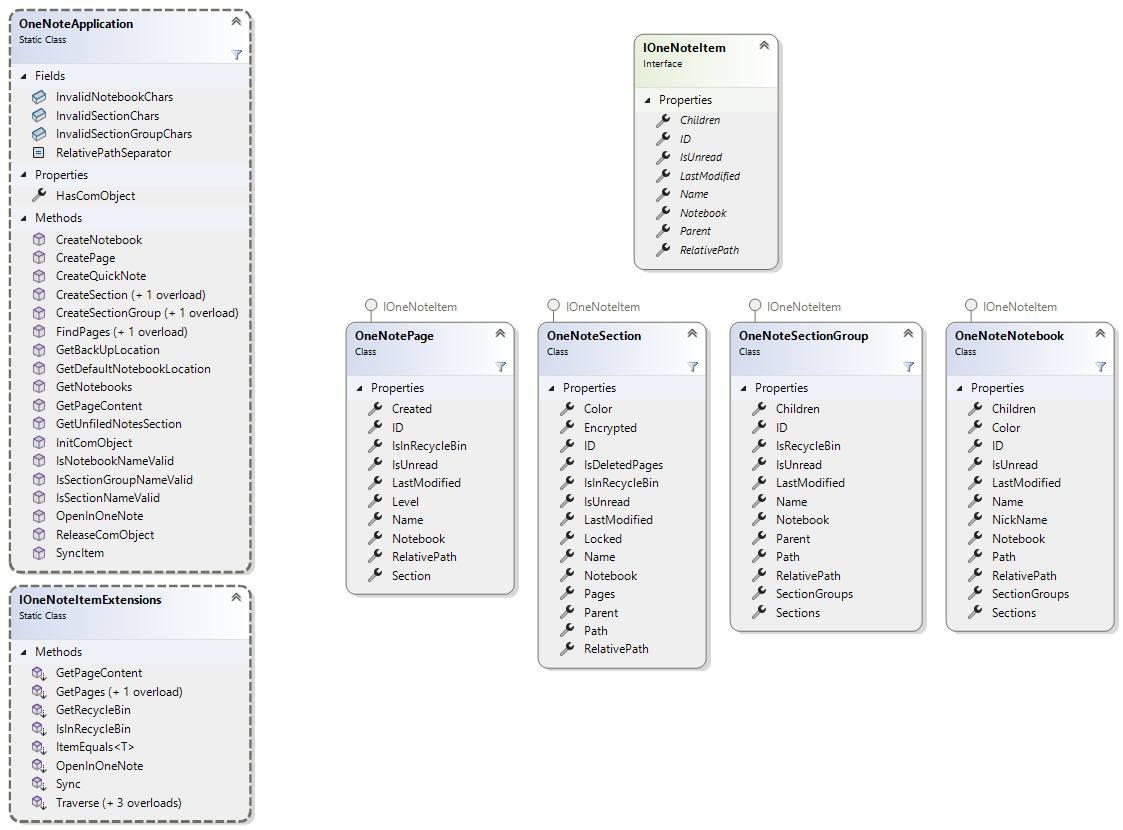
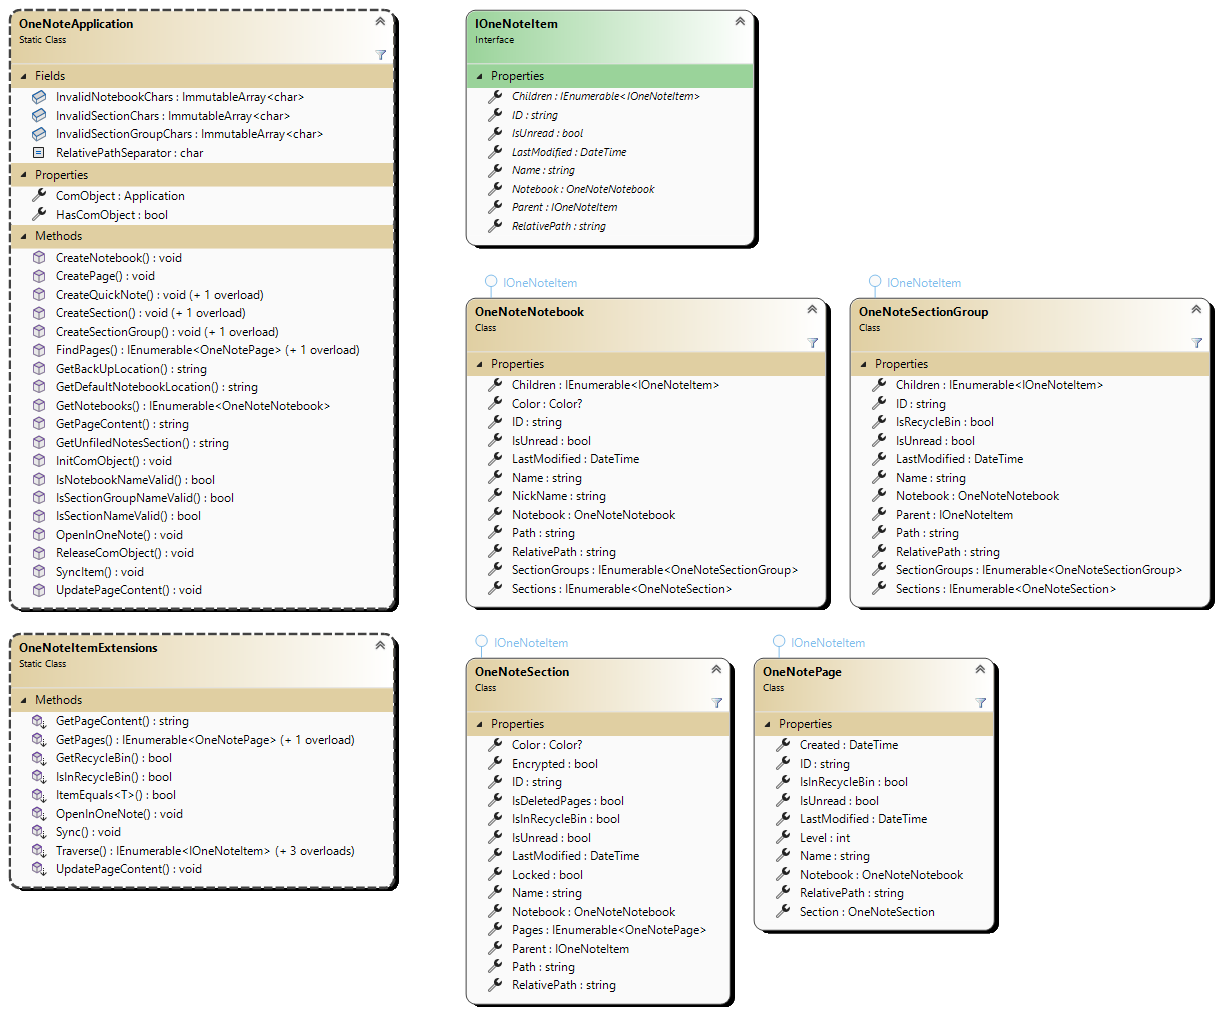
Update documentation

Changed region(s): [[0.0, 0.0, 0.9973, 1.0]]

diff --git a/Odotocodot.OneNote.Linq.Playground/Program.cs b/Odotocodot.OneNote.Linq.Playground/Program.cs
@@ -33,7 +33,7 @@ namespace Odotocodot.OneNote.Linq.Playground
 			[Benchmark]
 			public void SwitchCase()
 			{
-				 Consume(OneNoteParser.ParseNotebooks(xml));
+				 Consume(XmlParser.ParseNotebooks(xml));
 			}
 		}
 

diff --git a/Documentation/articles/samples.md b/Documentation/articles/samples.md
@@ -1,0 +1,71 @@
+# Samples and Examples
+
+The library's original purpose was for the OneNote [Flow Launcher](https://www.flowlauncher.com/) plugin available [here](https://github.com/Odotocodot/Flow.Launcher.Plugin.OneNote). This plugin itself has several good examples of how to use the library.
+
+The examples below are not exactly best practices, but they should give you a good starting point!
+
+[//]: # (TODO Fix the LinqPad Link)
+They can also be found in [LinqPad]() for easy viewing! (Though be weary of the [Create Page](#create-pages-in-sections-with-less-than-2-pages) example as it will create a pages in your OneNote!)
+### Get Recent Pages
+
+```csharp
+var pages = OneNoteApplication.GetNotebooks()
+    .GetPages()
+    .Where(p => !p.IsInRecycleBin)
+    .OrderByDescending(p => p.LastModified)
+    .Take(5);
+
+foreach (var page in pages)
+{
+    Console.WriteLine(page.Name);
+}
+```
+
+### Get All Items in Recycle Bins
+
+```csharp
+var items = OneNoteApplication.GetNotebooks()
+    .Traverse(i => i.IsInRecycleBin()) // use an extension method to check if the item is in the recycle bin
+    .Where(i => i switch
+    {
+        OneNoteSectionGroup sectionGroup when sectionGroup.IsRecycleBin => false, // skip the special recycle bin section group
+        OneNoteSection section when section.IsDeletedPages => false, // skip the special deleted pages section in a recycle bin
+        _ => true
+    })
+    .ToList();
+
+
+Console.WriteLine(items.Count);
+foreach (var item in items)
+{
+    Console.WriteLine(item.Name);
+}
+```
+
+### Create Pages in Sections With Less Than 2 Pages
+
+> [!WARNING]
+> If you decide to run this code it will create pages (potentially hundreds :dizzy_face:) in your OneNote!
+
+```csharp
+//IF YOU RUN THIS IT WILL CREATE A PAGES IN YOUR ONENOTE!
+var newPageName = "Hopefully a very unique and specific title!";
+var sections = OneNoteApplication.GetNotebooks()
+    .Traverse(i => i is OneNoteSection)
+    .Cast<OneNoteSection>()
+    .Where(s => s.Pages.Count() <= 1);
+foreach (var section in sections)
+{
+    OneNoteApplication.CreatePage(section, newPageName, false);
+}
+```
+
+### Search for a Page and Open Its Section
+
+```csharp
+var page = OneNoteApplication.FindPages("This specific search").MaxBy(p => p.LastModified);
+OneNoteApplication.OpenInOneNote(page.Section);
+```
+
+### TEST
+[!code-csharp[](../../linqpad-samples/RecentPages.linq#L5-L16)]

diff --git a/Documentation/articles/extra_information.md b/Documentation/articles/extra_information.md
@@ -1,0 +1,31 @@
+# Additional Information
+
+### The Hierarchy Conundrum
+
+Currently, the full hierarchy is returned when calling `OneNoteApplication.GetNotebooks()`. 
+Which means depending on the number of notebooks, section groups, sections and pages you have it can take a significant amount of time.
+
+Furthermore, when calling `OneNoteApplication.FindPages()` the hierarchy returned is _partially full_. 
+The pages returned have references all the way to the notebooks that owns them, but those notebooks will not have all there 
+descendants (section groups, sections and pages) present, only the ones related to the pages returned.
+
+This can lead to weird scenarios such as:
+```csharp
+var page = OneNoteApplication.FindPages("A unique page").First();
+var searchNotebook = page.Notebook;
+//or alternatively
+IOneNoteItem item = page;
+while (item is not OneNoteNotebook)
+{
+    item = item.Parent;
+}
+
+Console.WriteLine(item == searchNotebook); //Prints TRUE
+
+var getAllNotebook = OneNoteApplication.GetNotebooks().First(n => n.Name == searchNotebook.Name);
+//Here's where things get weird
+Console.WriteLine(searchNotebook == getAllNotebook); //Prints FALSE
+Console.WriteLine(searchNotebook.ID == getAllNotebook.ID); //Prints TRUE
+Console.WriteLine(searchNotebook.Children.Traverse().Count() ==
+                  getAllNotebook.Children.Traverse().Count()); //Prints FALSE
+```

diff --git a/Documentation/articles/memory_management.md b/Documentation/articles/memory_management.md
@@ -1,0 +1,36 @@
+# Memory Management
+
+A COM object is required to use the OneNote Interop API, by default this is acquired lazily, i.e. the first time you call a method that requires a COM object, the library gets one.
+
+However, acquiring a COM object is _slow_ and once retrieved, it is visible in the Task Manager as shown below.
+
+![task manager screenshot](~/images/task_manager.png)
+
+If you want to choose when this operation occurs, you can call ``OneNoteApplication.InitComObject()`` to forcible acquire the COM object (it does nothing if one has already been attained).
+
+To free up the memory that the COM object takes up, rather than wait for your application to exit you can call  ``OneNoteApplication.ReleaseComObject()``.
+
+See below for an example.
+
+```csharp
+//Get the COM object
+OneNoteApplication.InitComObject();
+
+//Do stuff e.g.
+OneNoteNotebook notebooks = OneNoteApplication.GetNotebooks();
+
+foreach (var notebook in notebooks)
+{
+    Console.WriteLine(notebook.Name)
+}
+
+IEnumerable<OneNotePage> pages = notebooks.Traverse(n => n.Children.Count() > 3).GetPages();
+
+foreach (var page in pages)
+{
+    Console.WriteLine(page.Section.Name);
+}
+
+//Release the COM object to free memory
+OneNoteApplication.ReleaseComObject()
+```

diff --git a/Documentation/articles/installation.md b/Documentation/articles/installation.md
@@ -1,0 +1,24 @@
+# Installation
+#### Step 1
+First make sure you have a local installation of OneNote, such as [OneNote](https://apps.microsoft.com/detail/xpffzhvgqwwlhb?hl=en-gb&gl=GB) (previously OneNote 2016) or [OneNote for Windows 10](https://www.microsoft.com/store/productId/9WZDNCRFHVJL?ocid=pdpshare).
+
+#### Step 2
+Create a console application, or open an existing one.
+
+#### Step 3
+Install the library from NuGet [here](https://www.nuget.org/packages/Odotocodot.OneNote.Linq/) or run the following command in your project directory:
+```
+dotnet add package Odotocodot.OneNote.Linq
+```
+
+#### Step 4
+Next code away!
+
+#### Afterword
+See [samples](samples.md) for examples on how to use the library.
+
+> [!IMPORTANT]
+> This library only works for local versions of OneNote, and does not make use of the Microsoft Graph API.
+
+> [!IMPORTANT]
+> This library is windows only as it uses COM Interop to interact with OneNote.

diff --git a/Odotocodot.OneNote.Linq/NuGet.md b/Odotocodot.OneNote.Linq/NuGet.md
@@ -1,18 +1,7 @@
-<h1 align="center">
-    <img src="https://github.com/Odotocodot/Linq2OneNote/assets/48138990/4b6025ab-6aa7-4d5e-aac6-2328961daeb5" alt="logo" width=40 height=40>
-LINQ to OneNote
-    <img src="https://github.com/Odotocodot/Linq2OneNote/assets/48138990/9f6b5f41-ed6a-4840-8766-fd5890c6bb7c" alt="logo mini" width=40 height=40>
-</h1>
+# LINQ to OneNote
 
 A helper library for dealing with the [OneNote Interop API](https://learn.microsoft.com/en-us/office/client-developer/onenote/application-interface-onenote).
 Originally made for [Flow.Launcher.Plugin.OneNote](https://github.com/Odotocodot/Flow.Launcher.Plugin.OneNote).
-
-## Installation
-
-Get the library from NuGet [here](https://www.nuget.org/packages/Odotocodot.OneNote.Linq/):
-```
-dotnet add package Odotocodot.OneNote.Linq
-```
 
 ## Usage
 

diff --git a/Documentation/api/index.md b/Documentation/api/index.md
@@ -1,2 +1,5 @@
-# PLACEHOLDER
-TODO: Add .NET projects to the *src* folder and run `docfx` to generate **REAL** *API Documentation*!
+# API Reference
+Select a class on the left hand side to view its documentation.
+
+An overview of the library can be seen in the class diagram below.
+![class diagram](~/images/class_diagram.png)

diff --git a/Documentation/articles/changelog.md b/Documentation/articles/changelog.md
@@ -1,0 +1,1 @@
+[!INCLUDE [CHANGELOG](../../CHANGELOG.md)]
